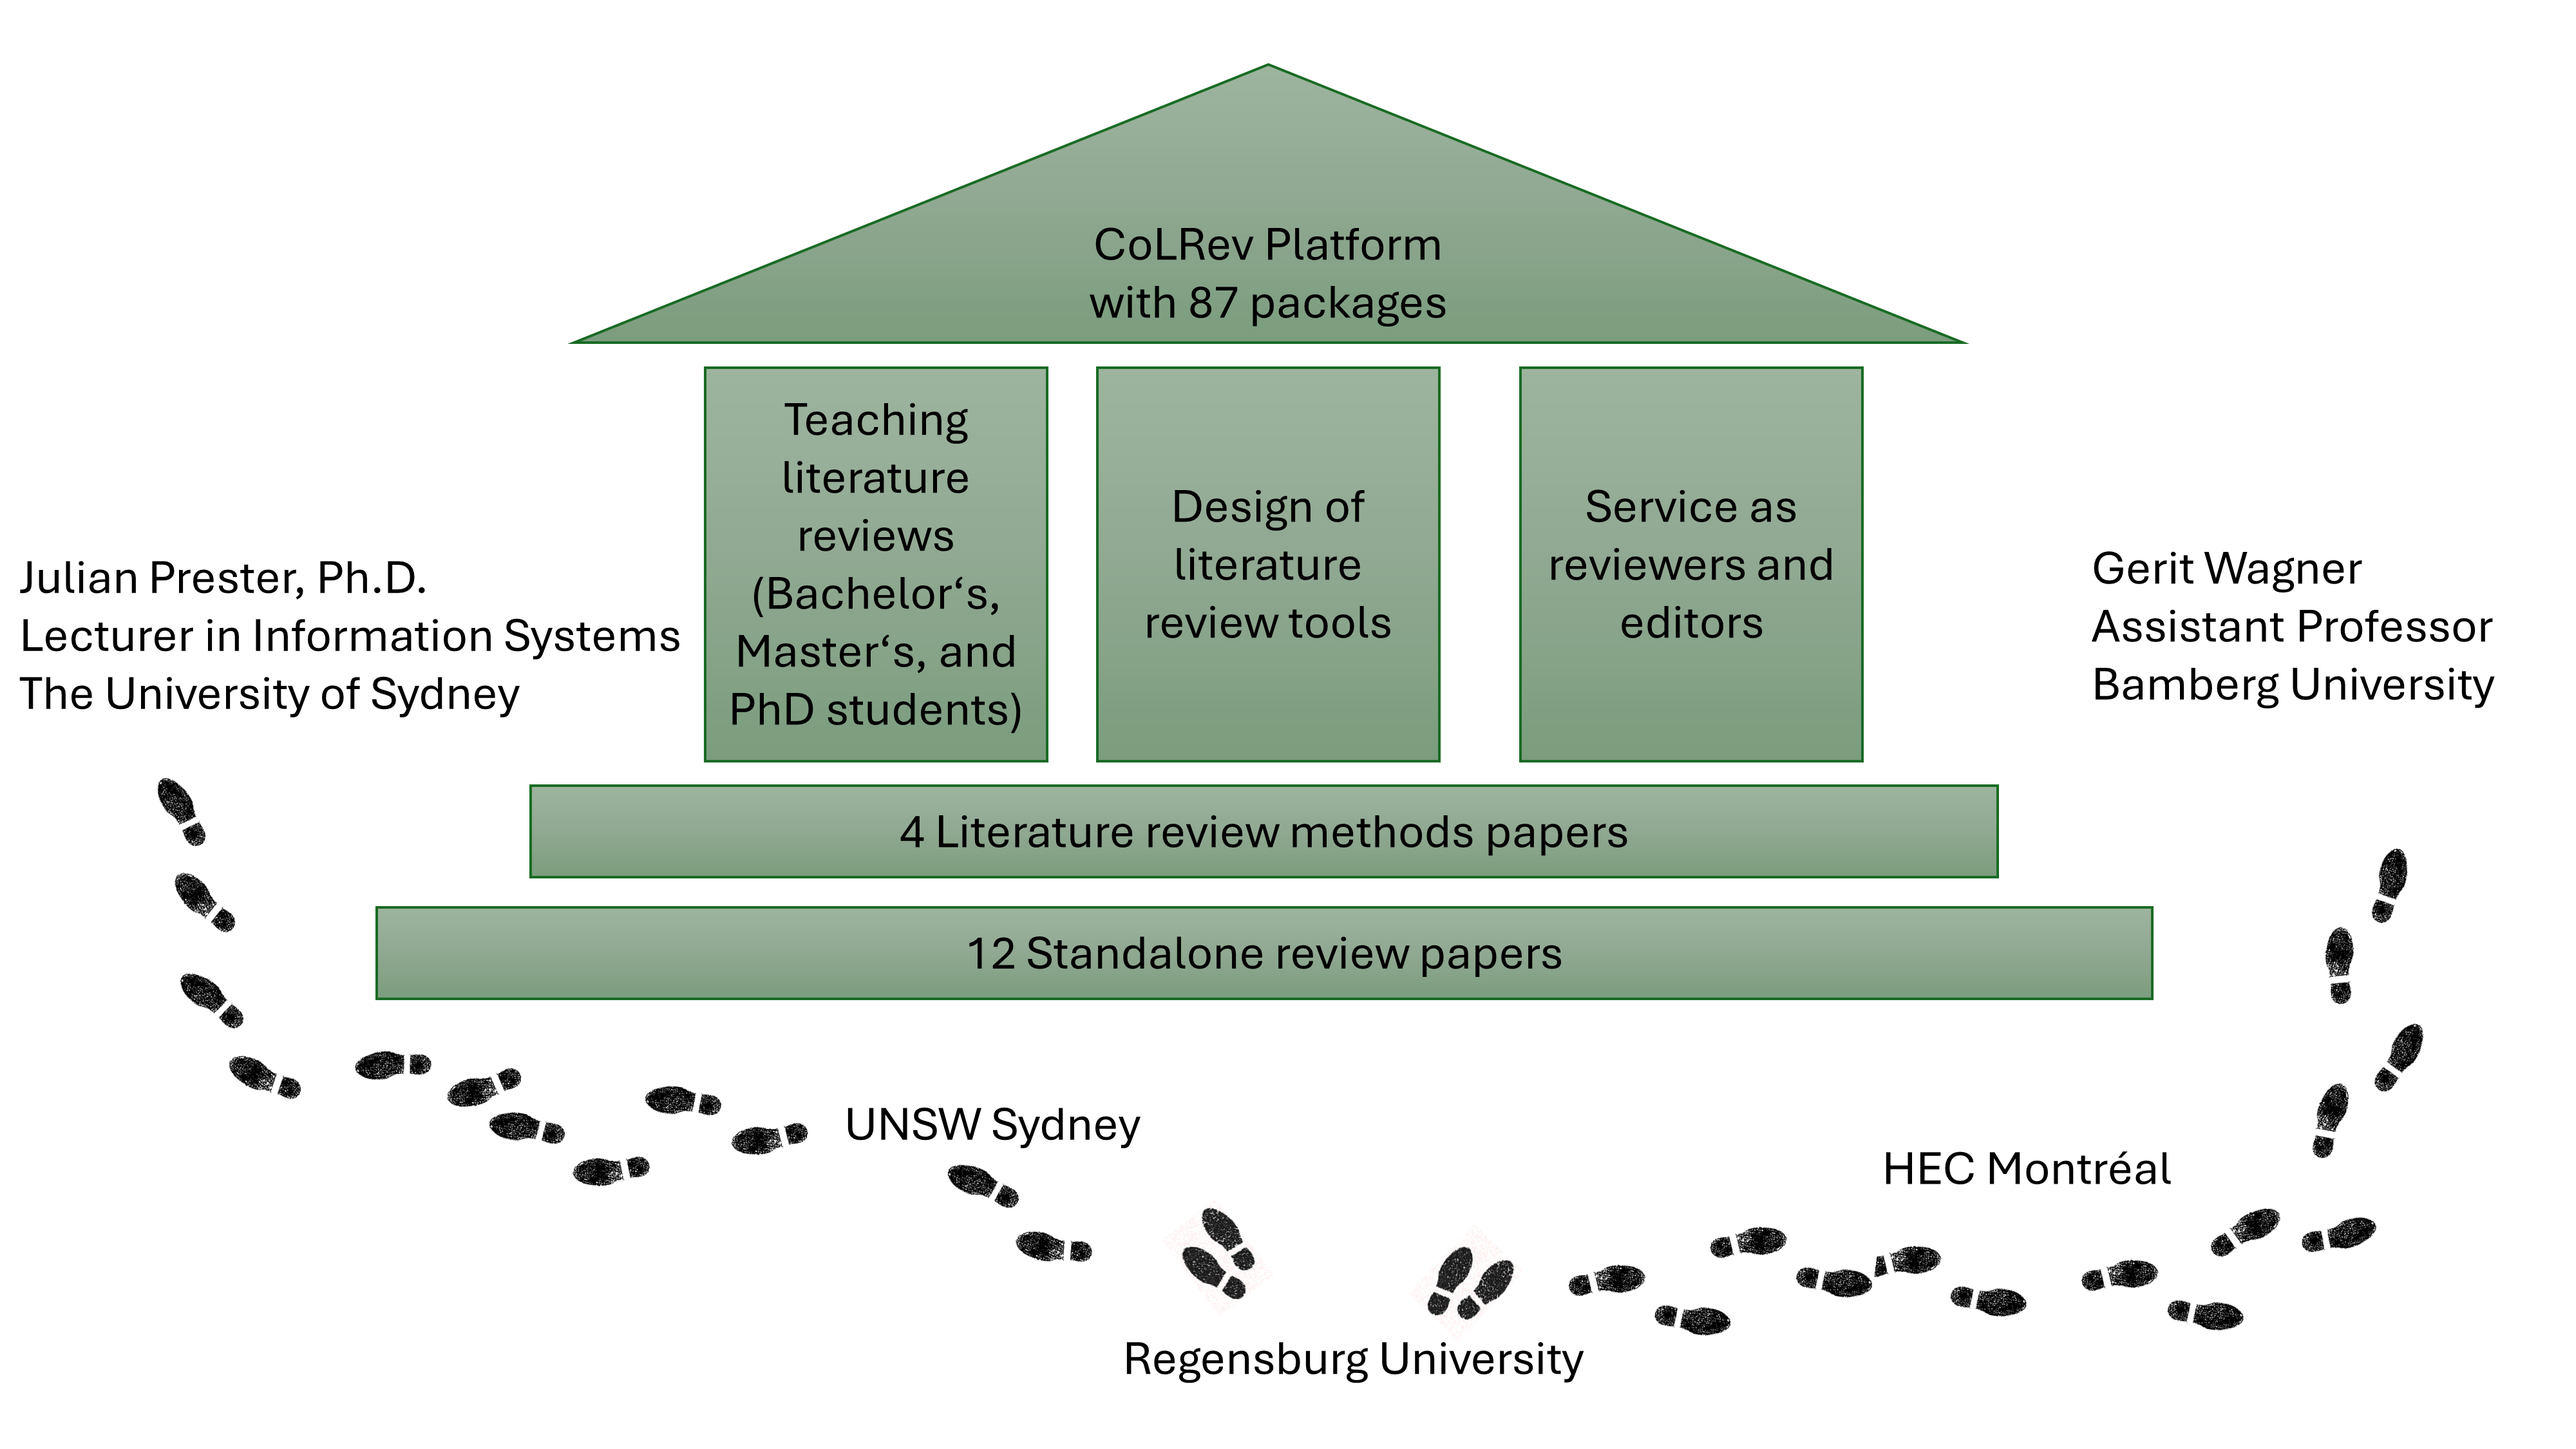
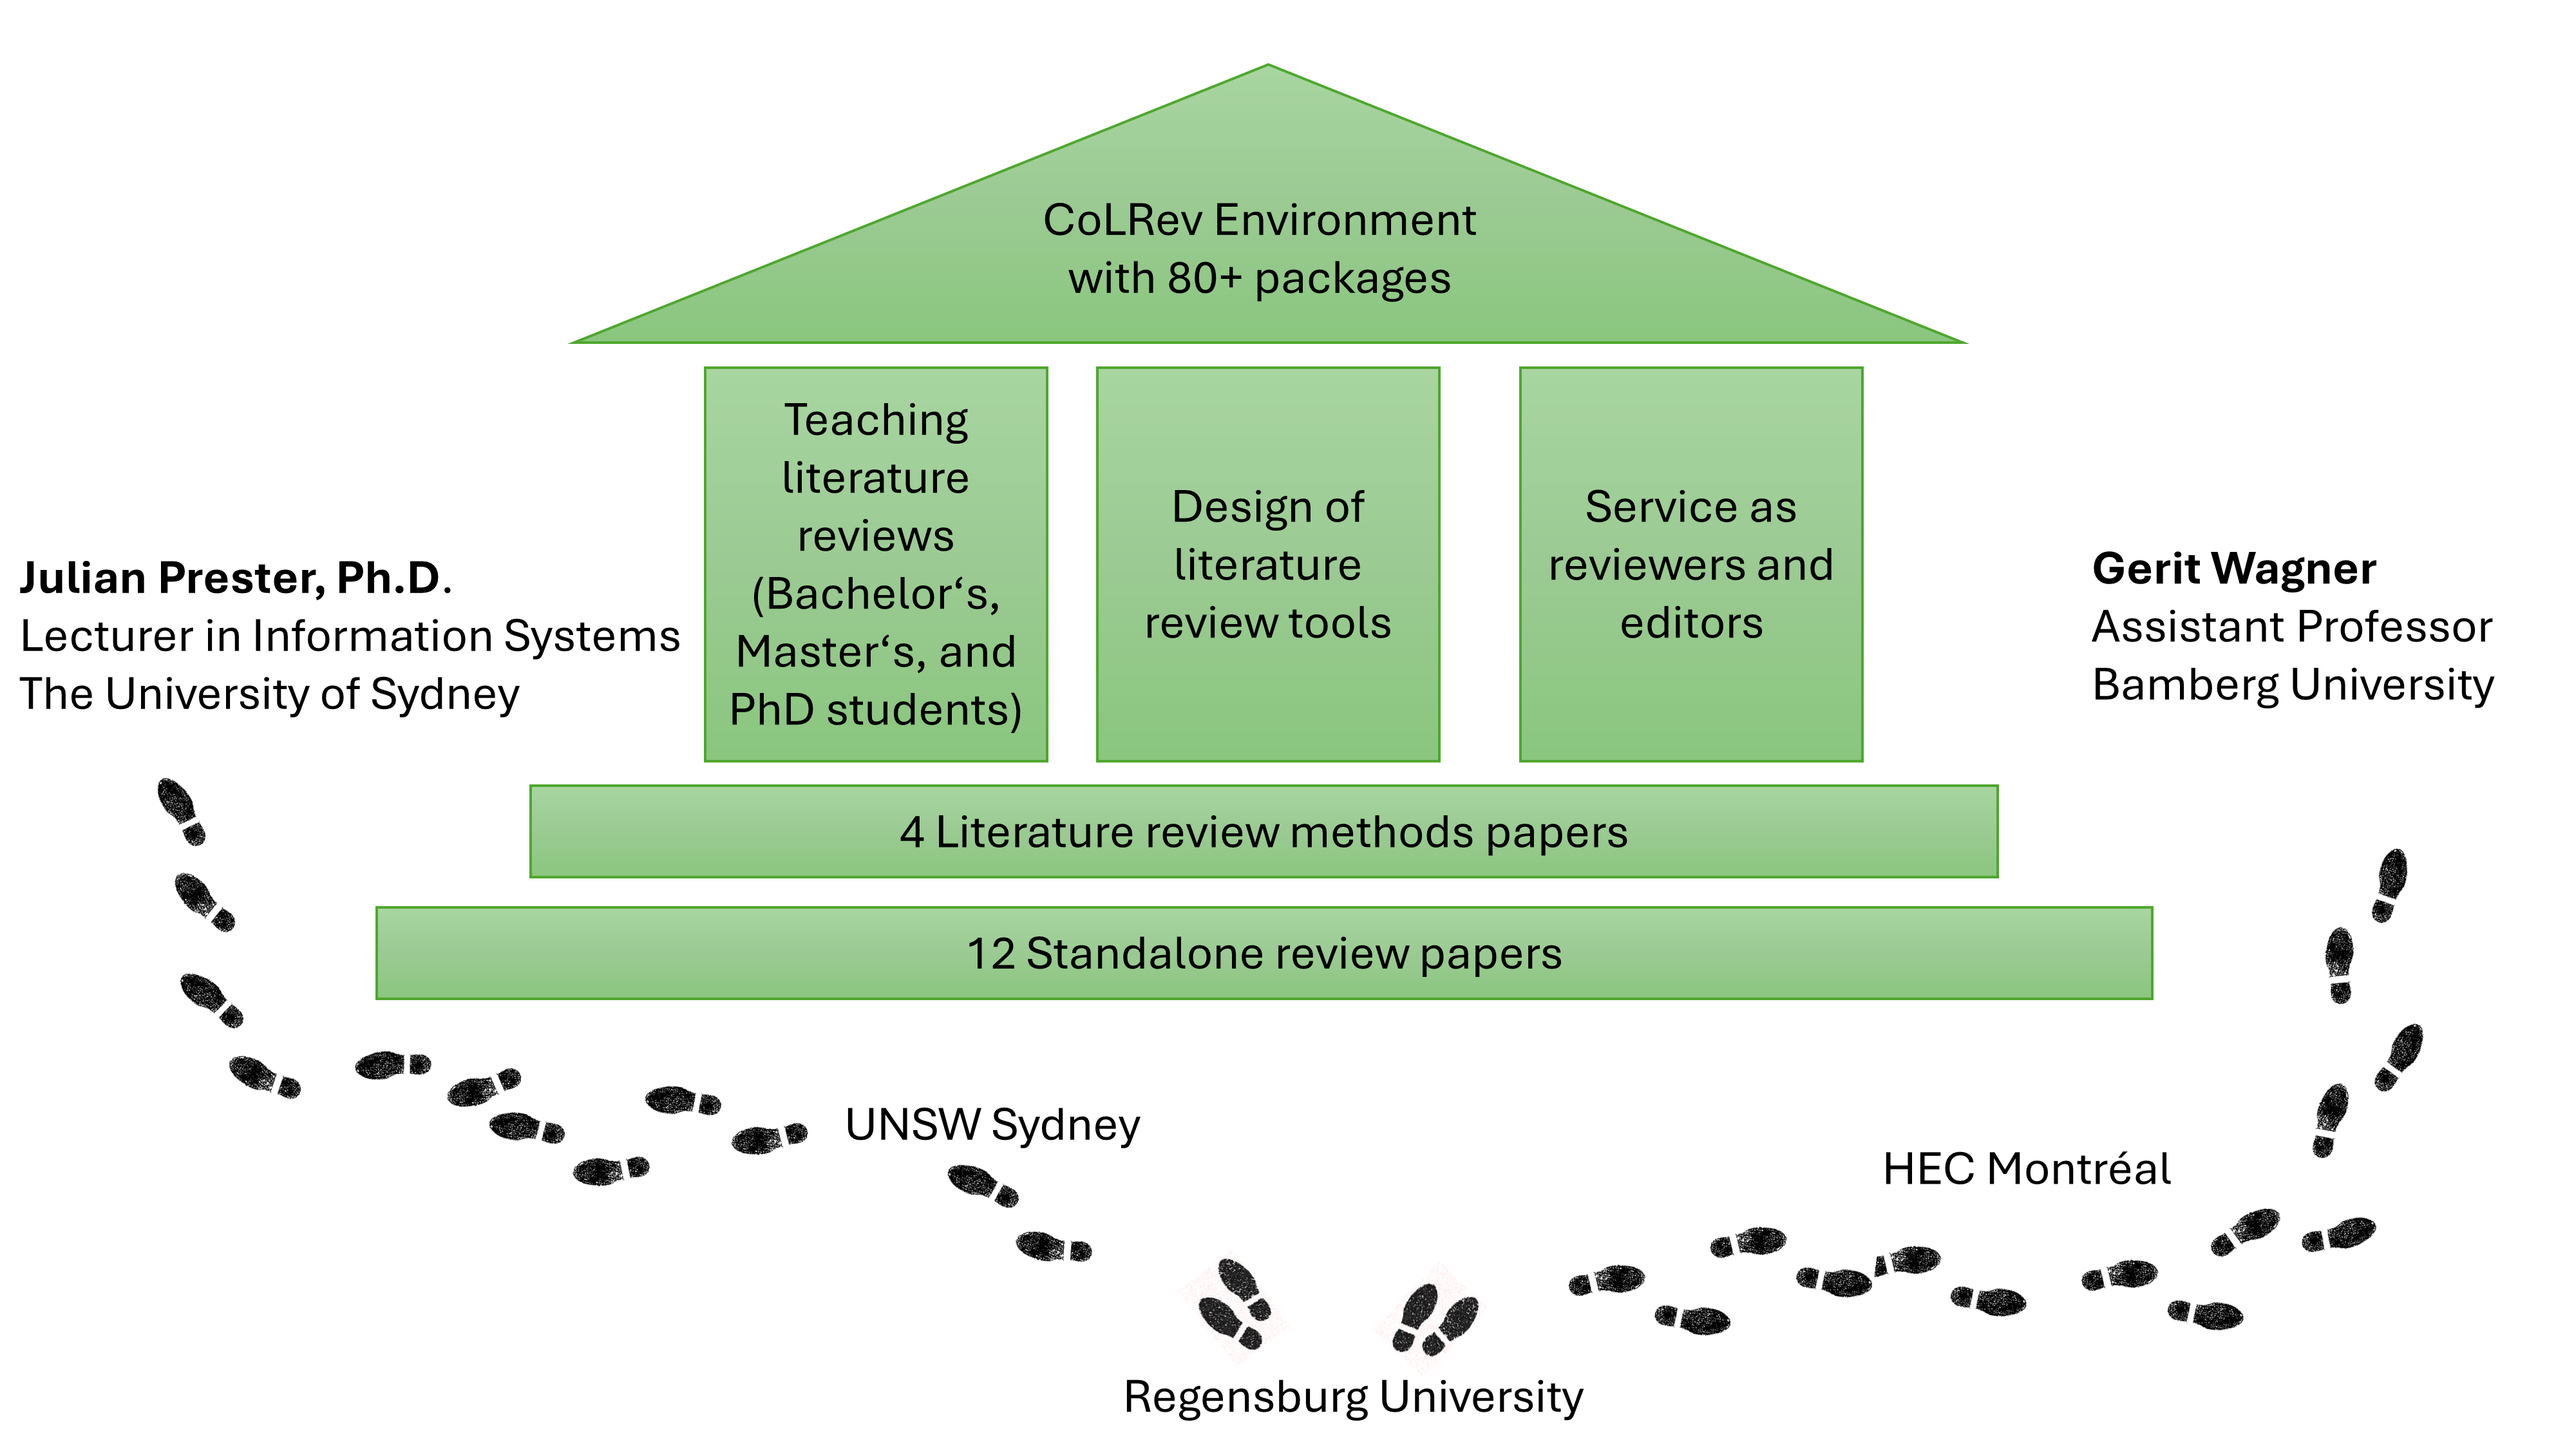
updates/consistency

diff --git a/2024-ECIS-slides.md b/2024-ECIS-slides.md
@@ -57,7 +57,7 @@ colrev projet: setup in 2021 - 3 years under development, 26 versions, 20 contri
 # Literature reviews with CoLRev
 
 - Based on Git for data versioning and collaboration
-- An open and extensible platform supporting different types of reviews 
+- An open and extensible environment supporting different types of reviews 
 - Covers all steps of the process
 
 <center>
